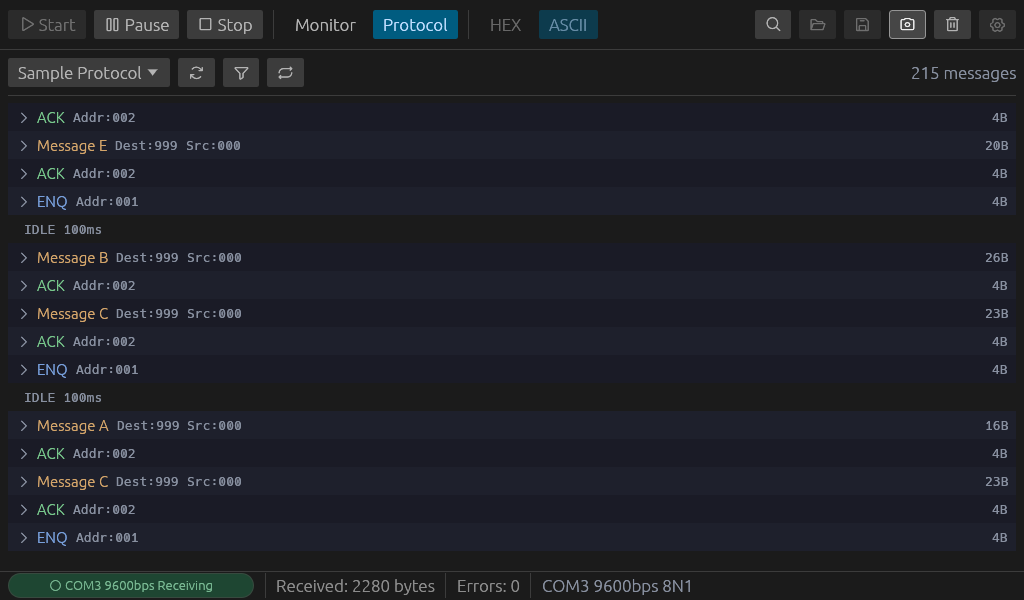
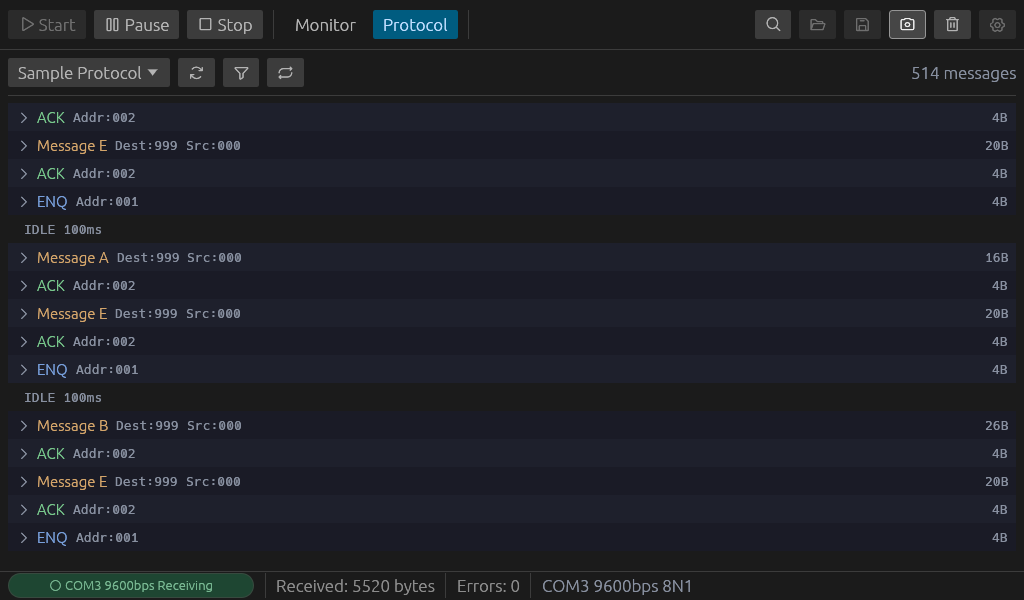
Hide HEX/ASCII selector on protocol tab
プロトコルタブではHEX/ASCII切替が不要なため、
グレーアウトではなく完全に非表示にする。
スクリーンショットも更新。

diff --git a/src/ui/header_bar.rs b/src/ui/header_bar.rs
@@ -54,12 +54,11 @@ pub fn draw(ui: &mut Ui, app: &mut GlassApp) {
 
         ui.separator();
 
-        // 表示モード切替（モニタタブ時のみ有効）
-        let is_monitor = app.active_tab == ViewTab::Monitor;
-        ui.add_enabled_ui(is_monitor, |ui| {
+        // 表示モード切替（モニタタブ時のみ表示）
+        if app.active_tab == ViewTab::Monitor {
             ui.selectable_value(&mut app.display_mode, DisplayMode::Hex, "HEX");
             ui.selectable_value(&mut app.display_mode, DisplayMode::Ascii, "ASCII");
-        });
+        }
 
         // エラー表示
         if let Some(err) = &app.last_error {
